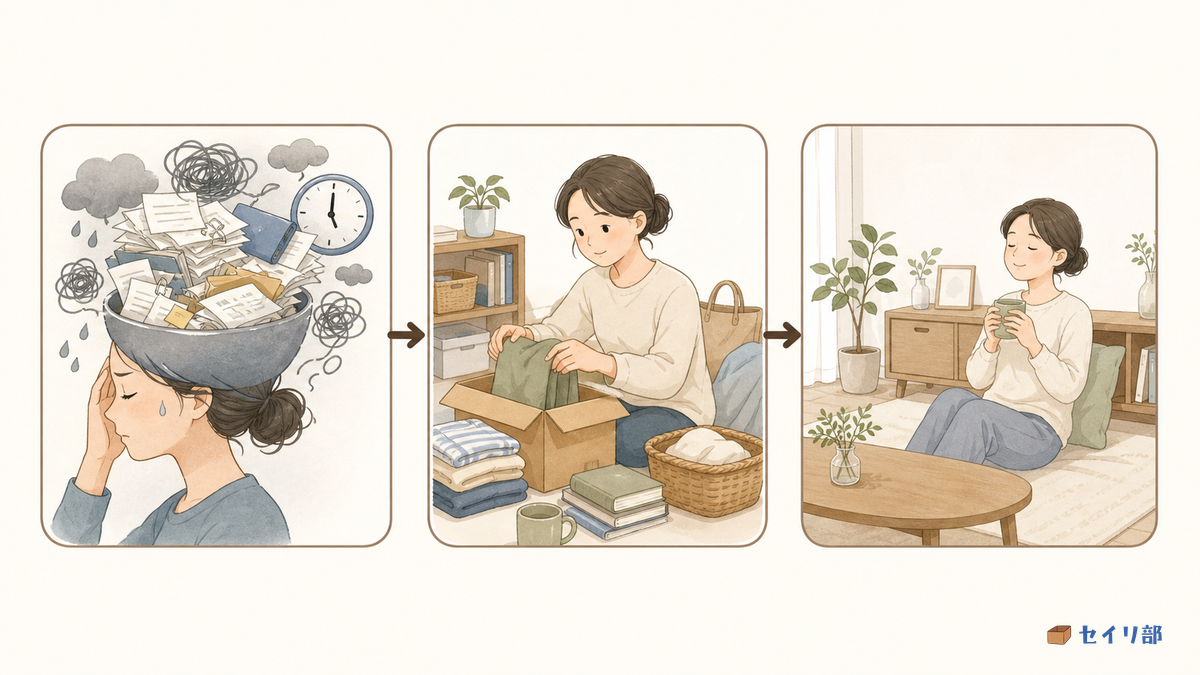
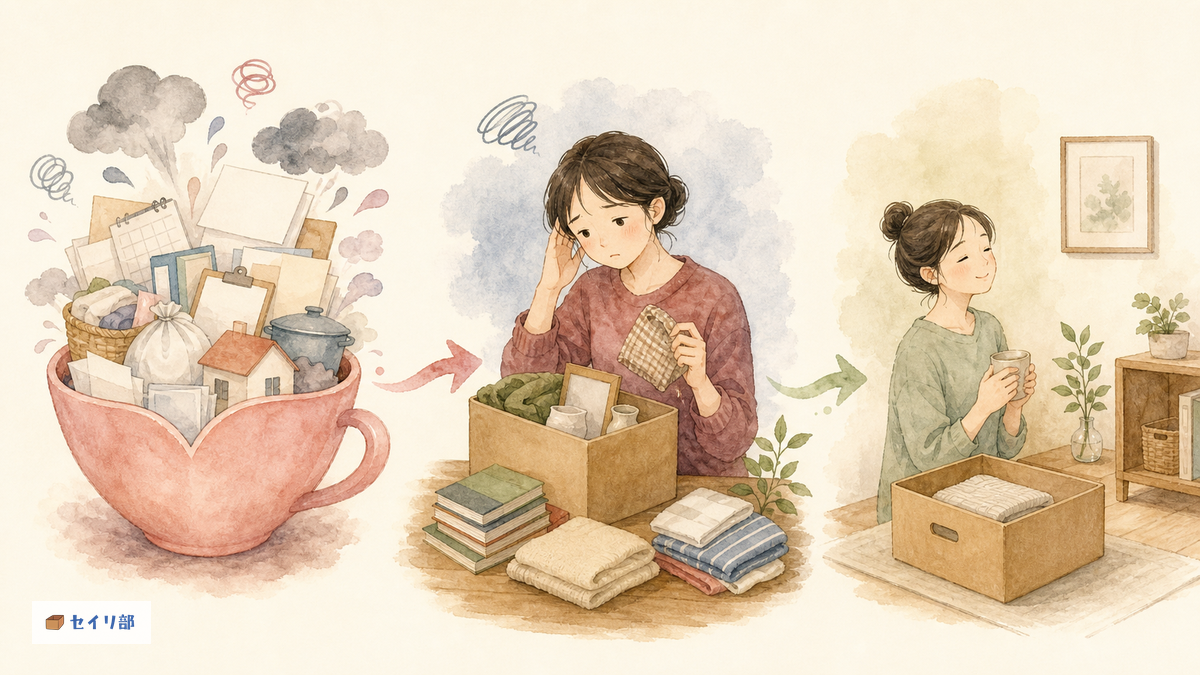
Add images for why decluttering seems crazy article

diff --git a/seiribu-editorial/assets/images/why-decluttering-seems-crazy/README.md b/seiribu-editorial/assets/images/why-decluttering-seems-crazy/README.md
@@ -1,0 +1,35 @@
+# 断捨離する人が「頭おかしい」と思われがちな理由｜家族が心配すべきケースと見守り方 画像
+
+## 完成画像
+
+| 用途 | ファイル | サイズ | WordPress画像タイトル | ALT |
+| --- | --- | --- | --- | --- |
+| アイキャッチ素材 | `why-decluttering-seems-crazy-eyecatch.png` | 1200 x 675 | 家族の急な断捨離に戸惑い、心配する様子 | 家族の急な断捨離に戸惑い、心配する様子 |
+| 記事内図解_scene | `why-decluttering-seems-crazy-inline-psychology.png` | 1200 x 675 | ストレスで容量がいっぱいになり、物を減らすことでコントロールを取り戻そうとする心理 | ストレスで容量がいっぱいになり、物を減らすことでコントロールを取り戻そうとする心理 |
+| 図解用小物素材 | `why-decluttering-seems-crazy-diagram-asset-ng-ok.png` | 1024 x 1024 | 捨てる前に一時保管する保留箱のイメージ | 捨てる前に一時保管する保留箱のイメージ |
+
+## 設置位置・キャプション
+
+### `why-decluttering-seems-crazy-eyecatch.png`
+
+- 設置位置: アイキャッチ合成用素材
+- キャプション候補: なし
+- ロゴ: none
+
+### `why-decluttering-seems-crazy-inline-psychology.png`
+
+- 設置位置: 本文中のCMSブリーフ位置
+- キャプション候補: 心の余裕がなくなると、目に見える「物」を減らして安心感を得ようとします。
+- ロゴ: white-backed:左下
+
+### `why-decluttering-seems-crazy-diagram-asset-ng-ok.png`
+
+- 設置位置: 本文中のCMSブリーフ位置
+- キャプション候補: 捨てるか迷ったら、まずは「保留箱」で時間を置きましょう。
+- ロゴ: none
+
+## 運用メモ
+
+- アイキャッチ素材はCanvaでタイトル、サブタイトル、ロゴを手動仕上げする
+- 本文画像・図解はブランド帰属表示としてセイリ部ロゴを合成済み
+- WordPressアップロード後、記事本文内のCMSブリーフは削除する
